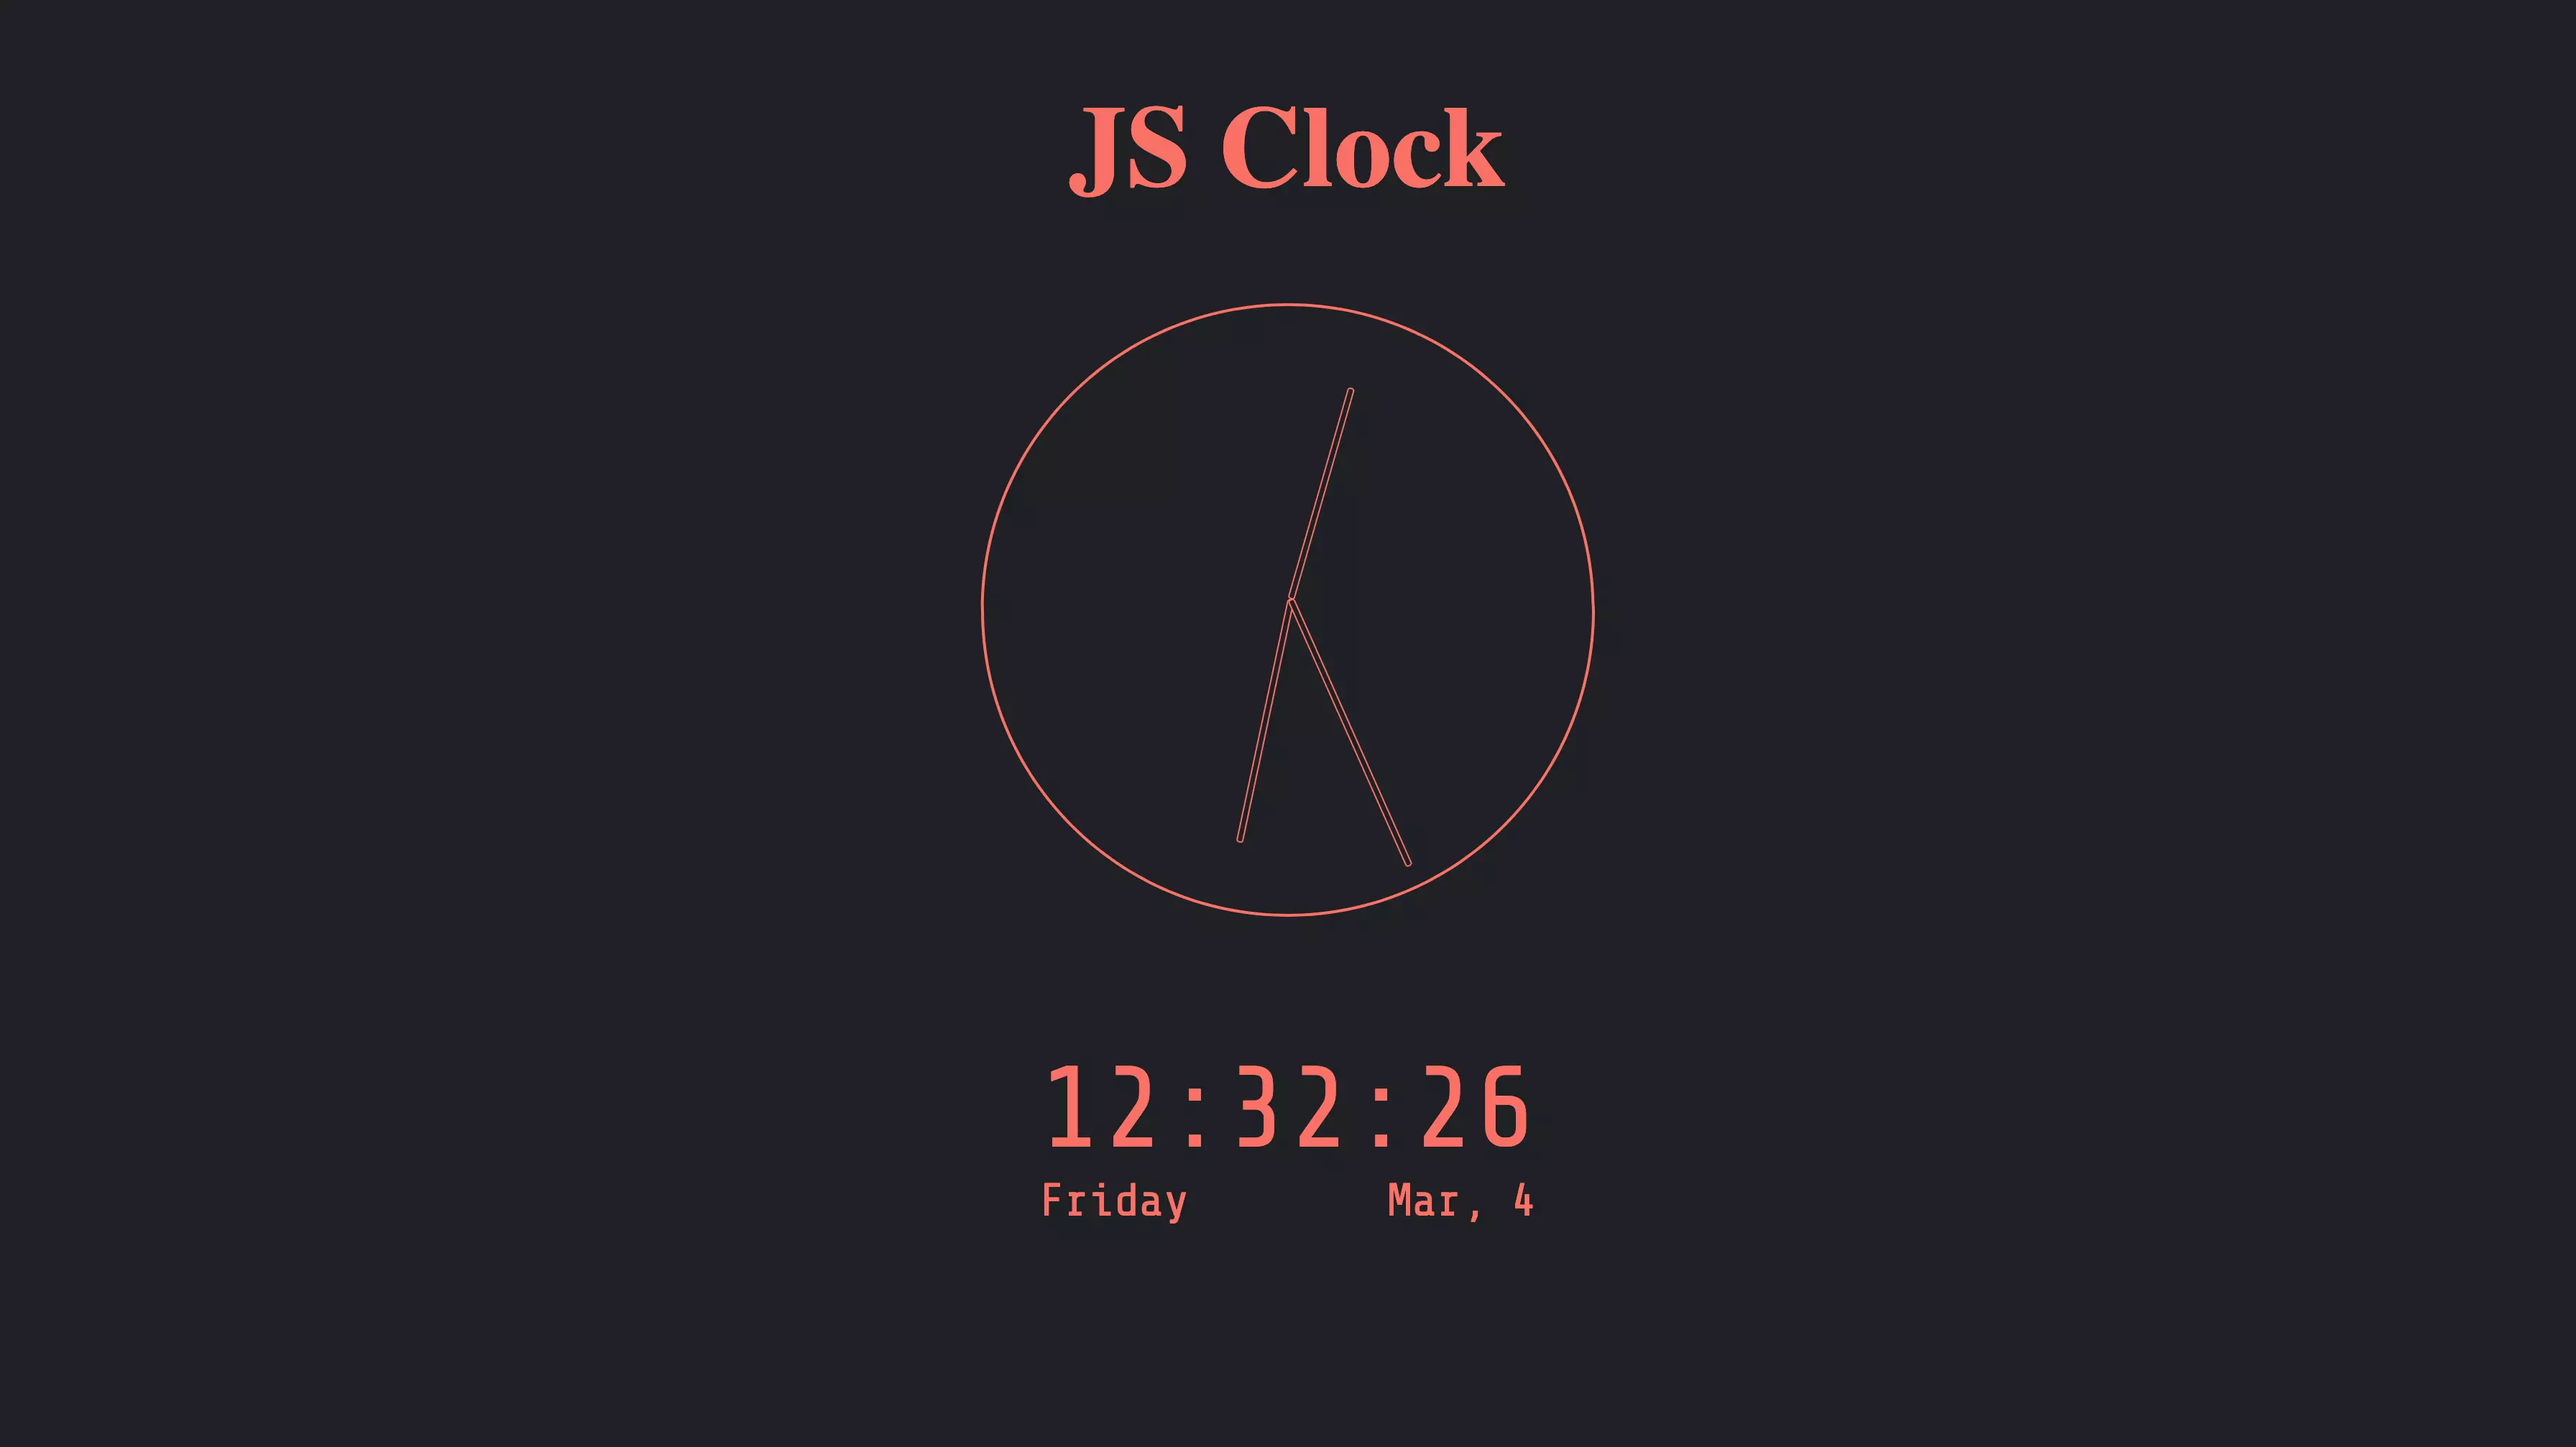
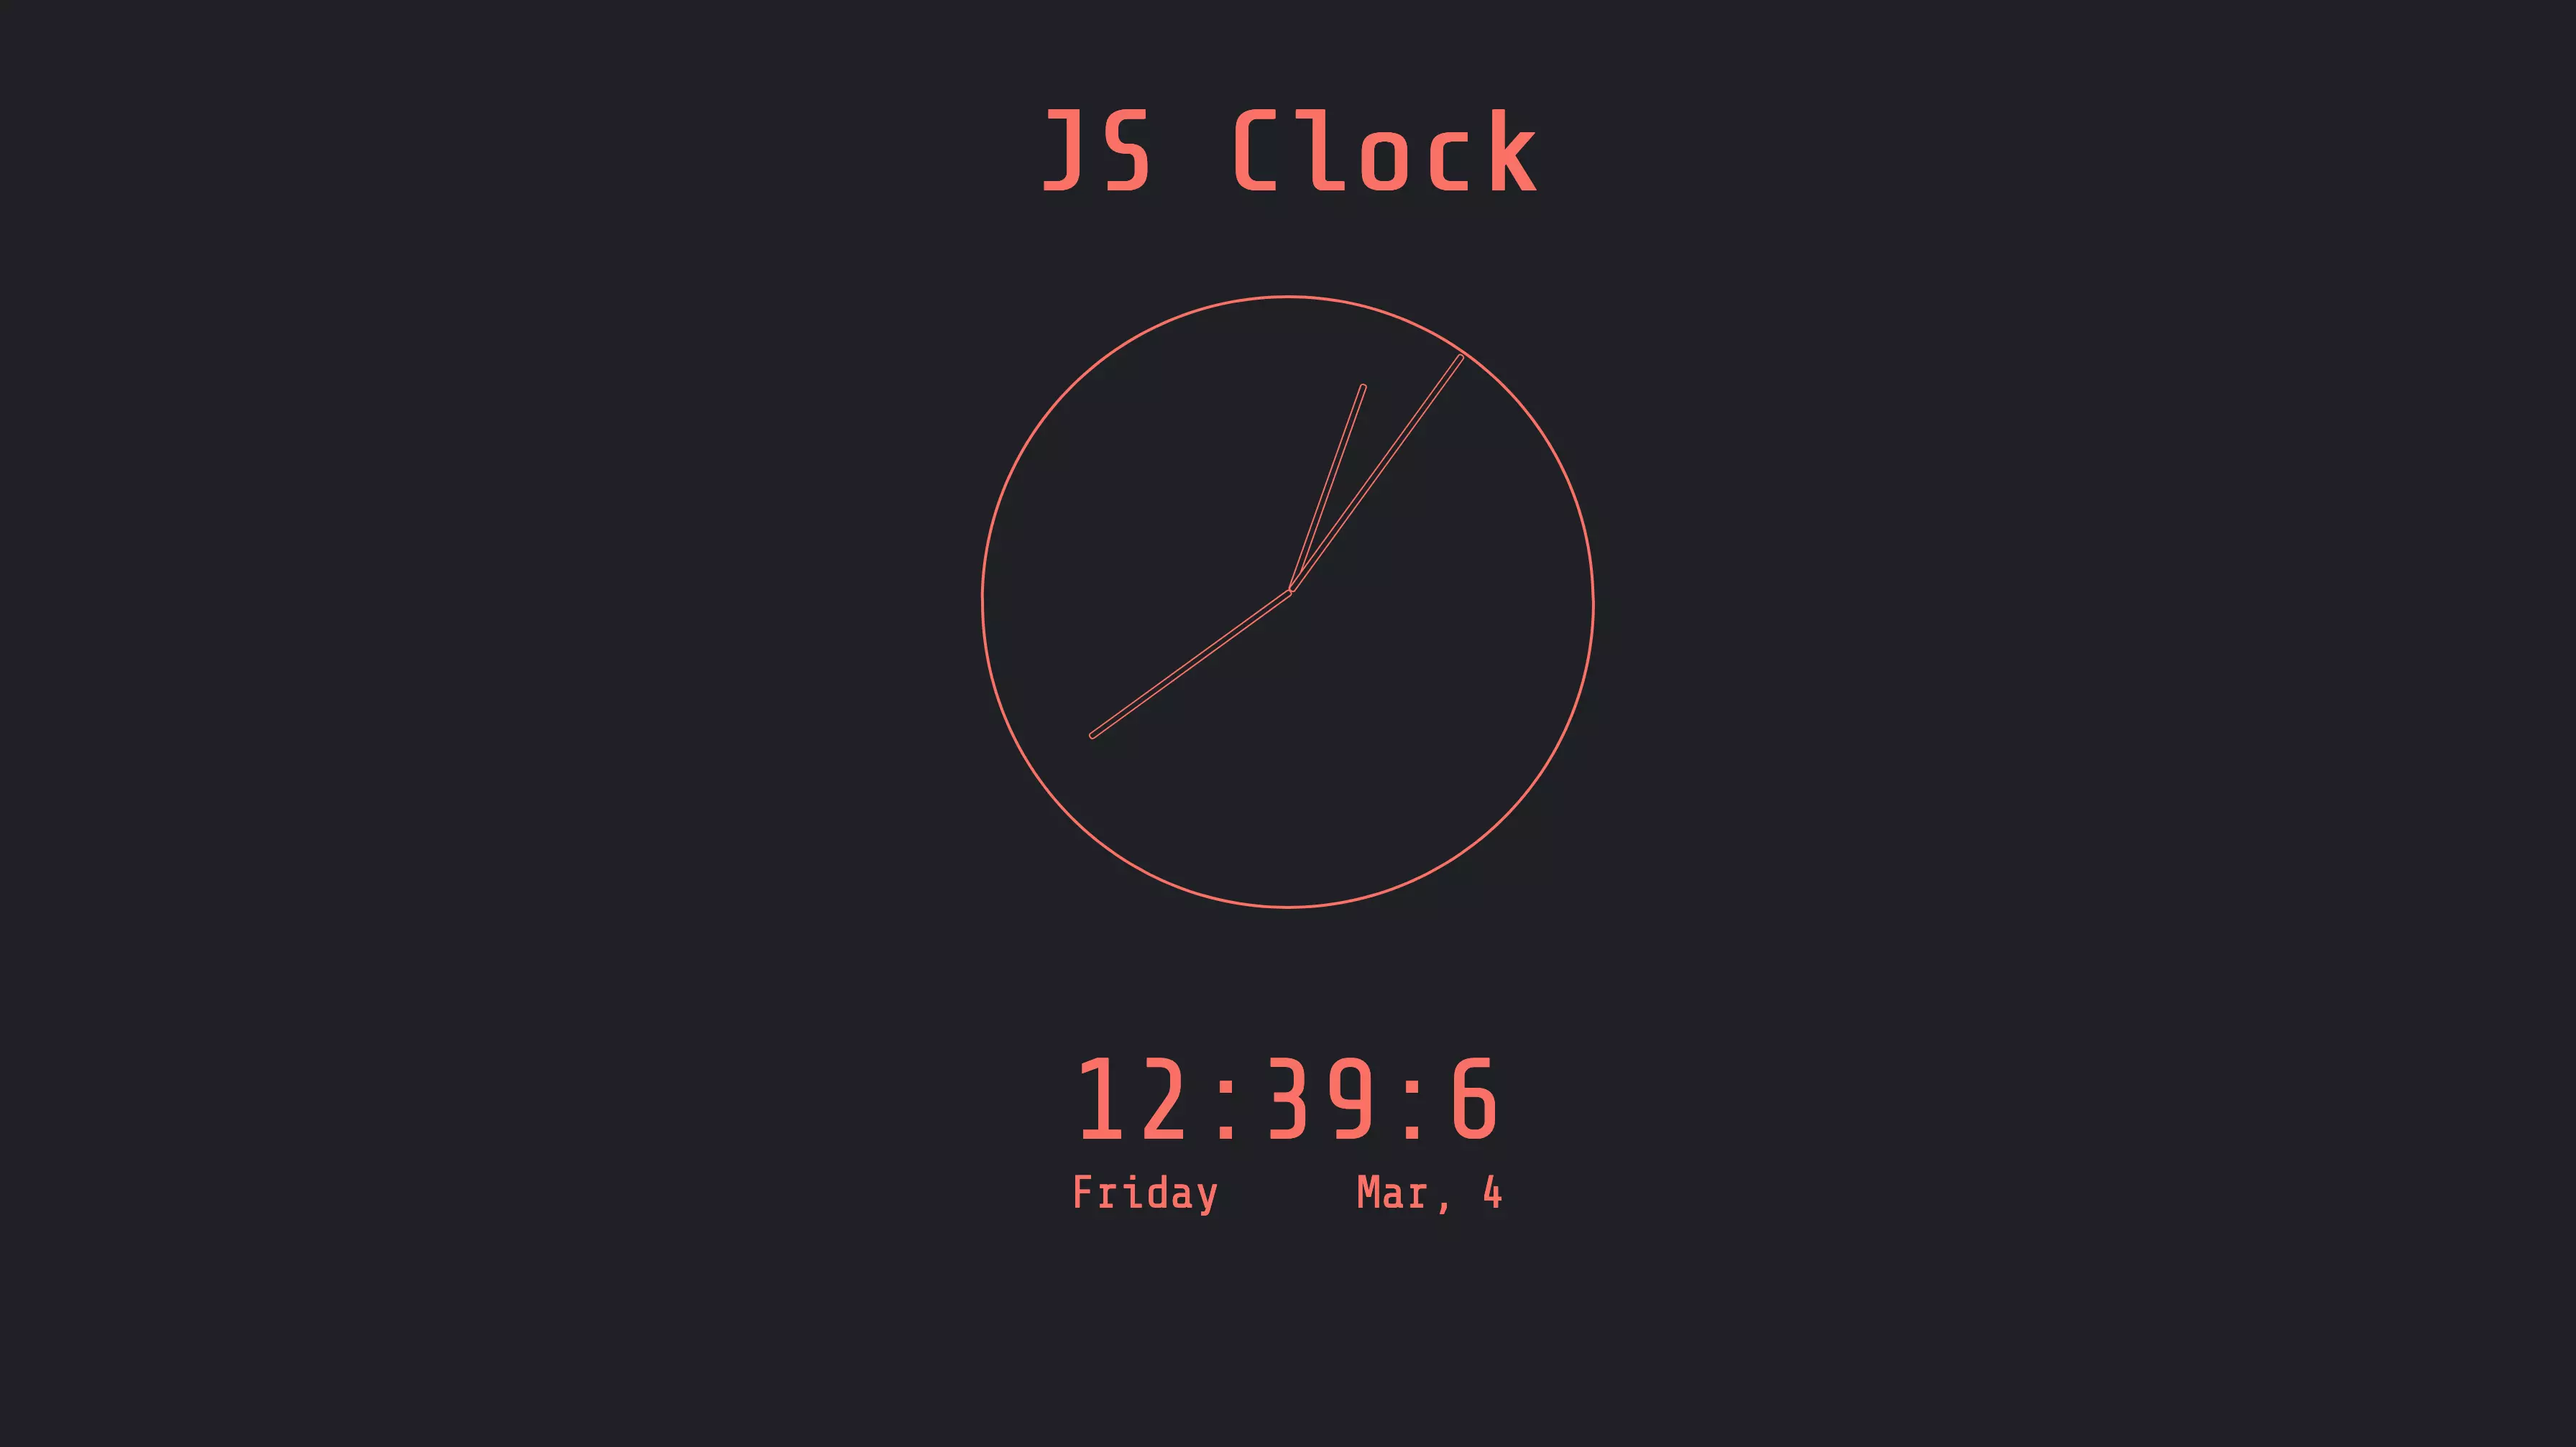
Day Two

diff --git a/DayTwo/style.scss b/DayTwo/style.scss
@@ -1,6 +1,7 @@
 @import url('https://fonts.googleapis.com/css2?family=Share+Tech+Mono&display=swap');
 *{
     background-color: #202124;
+    font-family: 'Share Tech Mono', monospace;
 }
 main{
     

diff --git a/DayTwo/style.css b/DayTwo/style.css
@@ -1,6 +1,7 @@
 @import url("https://fonts.googleapis.com/css2?family=Share+Tech+Mono&display=swap");
 * {
   background-color: #202124;
+  font-family: 'Share Tech Mono', monospace;
 }
 
 main {
